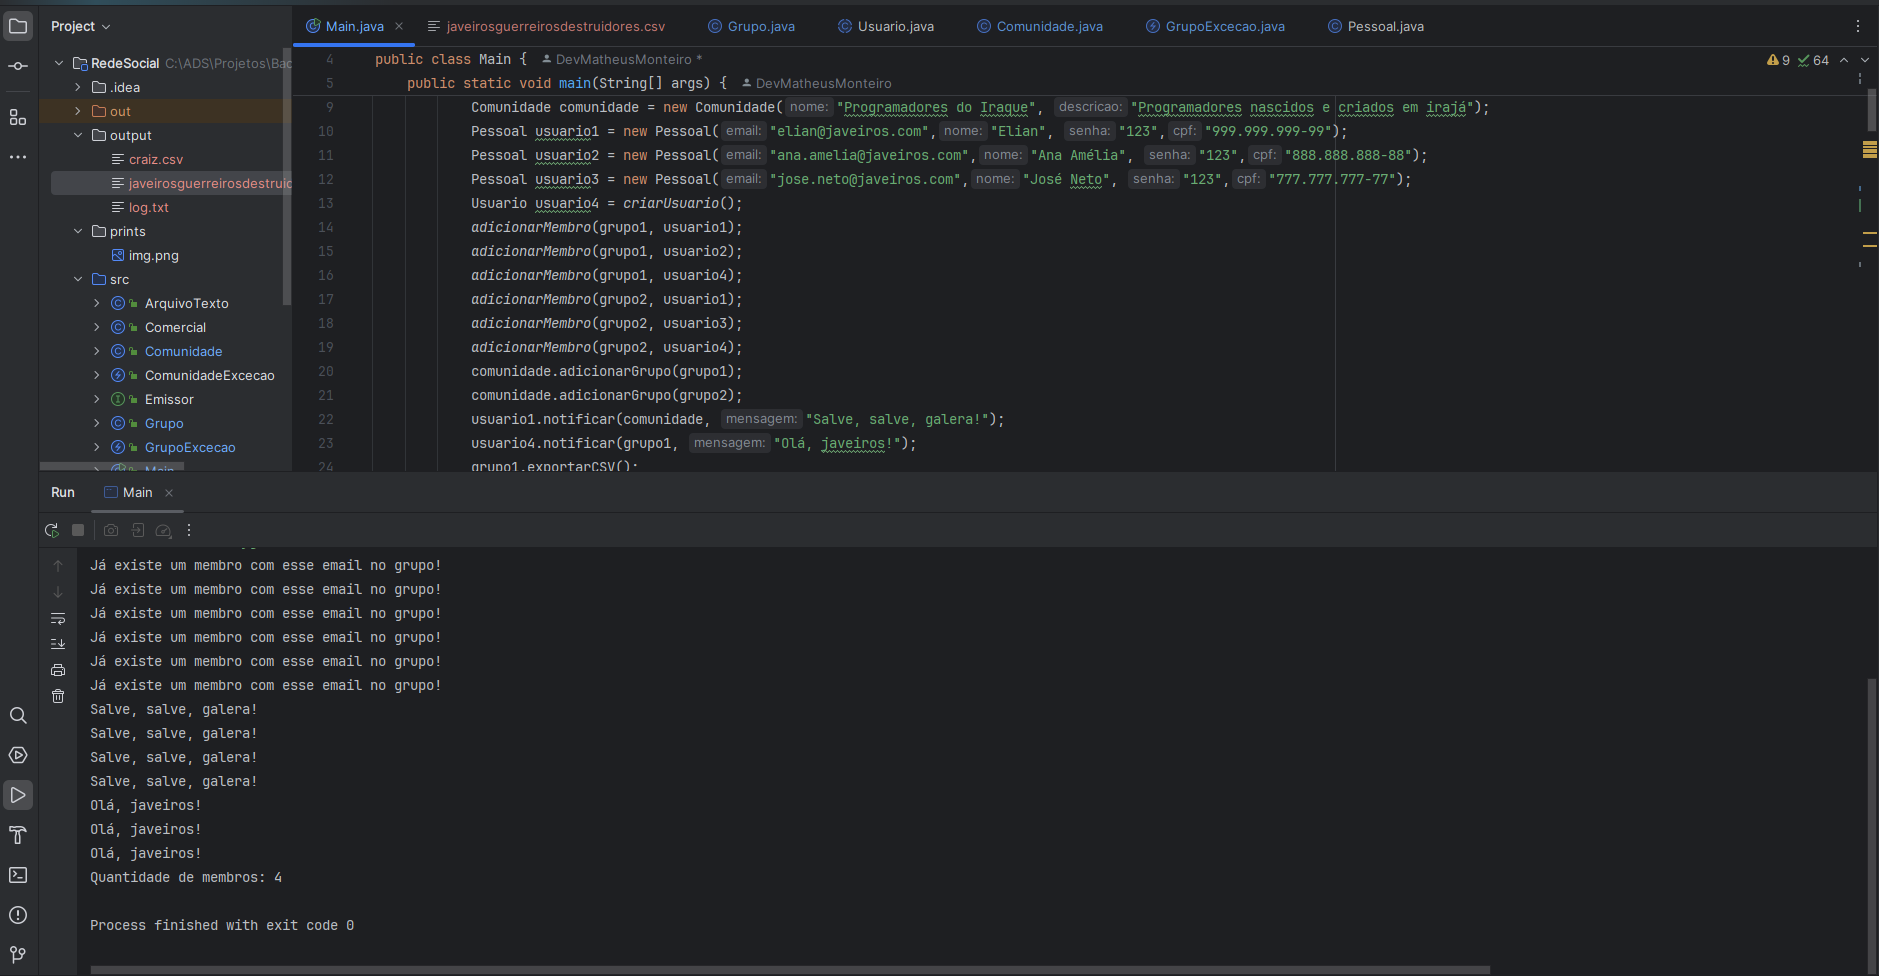
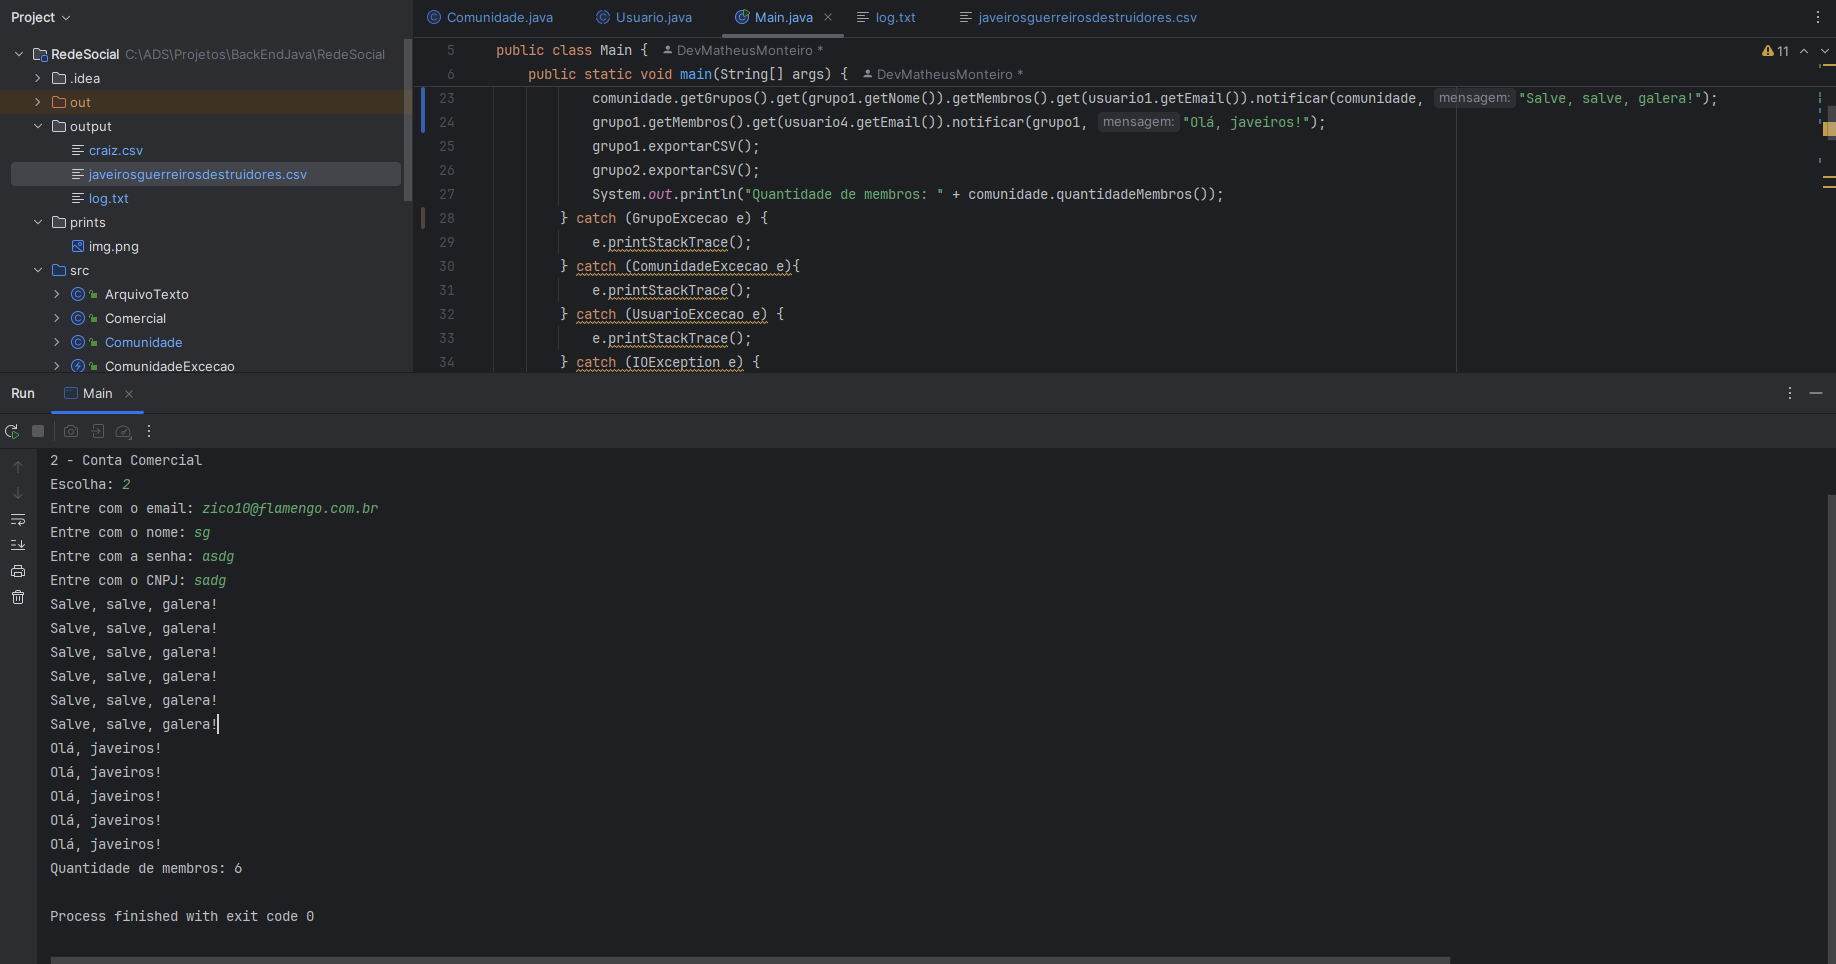
adding HashMap, HashSet and using streams

diff --git a/src/Main.java b/src/Main.java
@@ -1,3 +1,4 @@
+import java.io.FileNotFoundException;
 import java.io.IOException;
 import java.util.InputMismatchException;
 import java.util.Scanner;
@@ -11,20 +12,20 @@ public class Main {
             Pessoal usuario2 = new Pessoal("ana.amelia@javeiros.com","Ana Amélia", "123","888.888.888-88");
             Pessoal usuario3 = new Pessoal("jose.neto@javeiros.com","José Neto", "123","777.777.777-77");
             Usuario usuario4 = criarUsuario();
+            adicionarMembro(grupo1, usuario4);
             adicionarMembro(grupo1, usuario1);
             adicionarMembro(grupo1, usuario2);
-            adicionarMembro(grupo1, usuario4);
             adicionarMembro(grupo2, usuario1);
             adicionarMembro(grupo2, usuario3);
             adicionarMembro(grupo2, usuario4);
             comunidade.adicionarGrupo(grupo1);
             comunidade.adicionarGrupo(grupo2);
-            usuario1.notificar(comunidade, "Salve, salve, galera!");
-            usuario4.notificar(grupo1, "Olá, javeiros!");
+            comunidade.getGrupos().get(grupo1.getNome()).getMembros().get(usuario1.getEmail()).notificar(comunidade, "Salve, salve, galera!");
+            grupo1.getMembros().get(usuario4.getEmail()).notificar(grupo1, "Olá, javeiros!");
             grupo1.exportarCSV();
             grupo2.exportarCSV();
             System.out.println("Quantidade de membros: " + comunidade.quantidadeMembros());
-        } catch (GrupoExcecao e){
+        } catch (GrupoExcecao e) {
             e.printStackTrace();
         } catch (ComunidadeExcecao e){
             e.printStackTrace();
@@ -43,18 +44,8 @@ public class Main {
         }
         return grupo;
     }
-    static void adicionarMembro(Grupo grupo, Usuario usuario) throws UsuarioExcecao {
-        try {
-            grupo.adicionarMembro(usuario);
-        } catch (GrupoExcecao e){
-            System.out.println(e.getMessage());
-            for (Usuario membro : grupo.getMembros()){
-                if(membro.equals(usuario)) {
-                    usuario.setNome(membro.getNome());
-                    break;
-                }
-            }
-        }
+    static void adicionarMembro(Grupo grupo, Usuario usuario) {
+        grupo.adicionarMembro(usuario);
     }
     static String entrarTexto(String mensagem) {
         Scanner sc = new Scanner(System.in);
@@ -66,8 +57,7 @@ public class Main {
             try {
                 Scanner sc = new Scanner(System.in);
                 System.out.print(mensagem);
-                int numero = sc.nextInt();
-                return numero;
+                return sc.nextInt();
             } catch (InputMismatchException e) {
                 System.out.println("Formato inválido!");
             }

diff --git a/src/Grupo.java b/src/Grupo.java
@@ -5,10 +5,10 @@ public class Grupo implements Ouvinte {
     private String nome;
     private String descricao;
 
-    private List<Usuario> membros;
+    private Map<String,Usuario> membros;
 
     public Grupo() {
-        membros = new ArrayList<>();
+        membros = new HashMap<>();
     }
 
     public Grupo(String nome, String descricao) throws GrupoExcecao{
@@ -30,24 +30,24 @@ public class Grupo implements Ouvinte {
     }
     public void setNome(String nome) throws GrupoExcecao{
         GrupoExcecao.verificarNomeVazioOuNulo(nome);
-
         this.nome = nome;
     }
-    public List<Usuario> getMembros() {
+    public Map<String,Usuario> getMembros() {
         return membros;
     }
-    public void adicionarMembro(Usuario membro) throws GrupoExcecao{
-        GrupoExcecao.verificarMembroExistente(membros, membro);
-        membros.add(membro);
-    }
 
-    public void removerMembro(Usuario membro) {
-        membros.remove(membro);
+    public void adicionarMembro(Usuario membro) {
+        if(!membros.containsKey(membro.getEmail())){
+            membros.put(membro.getEmail(), membro);
+        }
+    }
+    public void removerMembro(String email) {
+        membros.remove(email);
     }
 
     public void receber(String mensagem) {
         if(!membros.isEmpty()) {
-            for (Usuario membro : membros) {
+            for (Usuario membro : membros.values()) {
                 membro.receber(mensagem);
             }
         }
@@ -59,7 +59,7 @@ public class Grupo implements Ouvinte {
 
             BufferedWriter bw = new BufferedWriter(new FileWriter(String.format("output/%s.csv", String.join("", nomeArquivo).toLowerCase())));
 
-            for (Usuario membro : membros) {
+            for (Usuario membro : membros.values()) {
                 if (membro instanceof Pessoal){
                     bw.append("Pessoal" +
                             "," + membro.getEmail() +
@@ -91,9 +91,9 @@ public class Grupo implements Ouvinte {
                 colunas = linha.split(",");
 
                 if (colunas[0].equals("Pessoal")){
-                    membros.add(new Pessoal(colunas[1], colunas[2], colunas[3], colunas[4]));
+                    membros.put(colunas[1],new Pessoal(colunas[1], colunas[2], colunas[3], colunas[4]));
                 } else {
-                    membros.add(new Comercial(colunas[1], colunas[2], colunas[3], colunas[4]));
+                    membros.put(colunas[1],new Comercial(colunas[1], colunas[2], colunas[3], colunas[4]));
                 }
             }
 

diff --git a/src/Comunidade.java b/src/Comunidade.java
@@ -1,12 +1,13 @@
 import java.util.*;
+import java.util.stream.Collectors;
 
 public class Comunidade implements Ouvinte {
     private String nome;
     private String descricao;
-    private List<Grupo> grupos;
+    private Map<String,Grupo> grupos;
 
     public Comunidade() {
-        grupos = new ArrayList<>();
+        grupos = new HashMap<>();
     }
 
     public Comunidade(String nome, String descricao) throws ComunidadeExcecao {
@@ -32,48 +33,27 @@ public class Comunidade implements Ouvinte {
         this.nome = nome;
     }
 
-    public List<Grupo> getGrupos() {
+    public Map<String,Grupo> getGrupos() {
         return grupos;
     }
 
     public void adicionarGrupo(Grupo grupo) {
-        grupos.add(grupo);
+        grupos.put(grupo.getNome(),grupo);
     }
 
-    public void removerGrupo(Grupo grupo) {
-        grupos.remove(grupo);
+    public void removerGrupo(String nome) {
+        grupos.remove(nome);
     }
     public int quantidadeMembros() {
-        List<Usuario> membros = new ArrayList<>();
-        for(int i = 0; i < grupos.size(); i++) {
-            if(i == 0){
-                membros.addAll(grupos.get(i).getMembros());
-            } else {
-                for (Usuario usuario : grupos.get(i).getMembros()) {
-                    if(!membros.contains(usuario)){
-                        membros.add(usuario);
-                    }
-                }
-            }
-        }
+        Set<Usuario> membros = new HashSet<>();
+        grupos.values().forEach(grupo -> membros.addAll(grupo.getMembros().values()));
         return membros.size();
     }
 
     public void receber(String mensagem) {
-        List<Usuario> membros = new ArrayList<>();
-        for(int i = 0; i < grupos.size(); i++) {
-            if(i != 0) {
-                for(Usuario membro : grupos.get(i).getMembros()){
-                    if(!membros.contains(membro)){
-                        membros.add(membro);
-                        membro.receber(mensagem);
-                    }
-                }
-            } else {
-                grupos.get(i).receber(mensagem);
-                membros.addAll(grupos.get(i).getMembros());
-            }
-        }
+        Set<Usuario> membros = new HashSet<>();
+        grupos.values().forEach(grupo -> membros.addAll(grupo.getMembros().values()));
+        membros.forEach(m -> m.receber(mensagem));
     }
 
     public String toString() {

diff --git a/src/Usuario.java b/src/Usuario.java
@@ -1,6 +1,7 @@
 import java.io.*;
 import java.text.SimpleDateFormat;
 import java.util.Date;
+import java.util.Objects;
 
 public abstract class Usuario implements Emissor, Ouvinte {
     private String nome;
@@ -15,8 +16,15 @@ public abstract class Usuario implements Emissor, Ouvinte {
         setSenha(senha);
     }
 
-    public boolean equals(Object usuario) {
-        return this.email.equals(((Usuario) usuario).getEmail());
+    public boolean equals(Object o) {
+        if (this == o) return true;
+        if (o == null || getClass() != o.getClass()) return false;
+        Usuario usuario = (Usuario) o;
+        return Objects.equals(getEmail(), usuario.getEmail());
+    }
+
+    public int hashCode() {
+        return Objects.hashCode(getEmail());
     }
 
     public String getEmail() {

diff --git a/src/GrupoExcecao.java b/src/GrupoExcecao.java
@@ -9,9 +9,4 @@ public class GrupoExcecao extends Exception {
         if (nome == null || nome.isEmpty())
             throw new GrupoExcecao("Nome não pode ser vazio ou nulo");
     }
-    public static void verificarMembroExistente(List<Usuario> membros, Usuario membro) throws GrupoExcecao {
-        if(membros.contains(membro)){
-            throw new GrupoExcecao("Já existe um membro com esse email no grupo!");
-        }
-    }
 }
